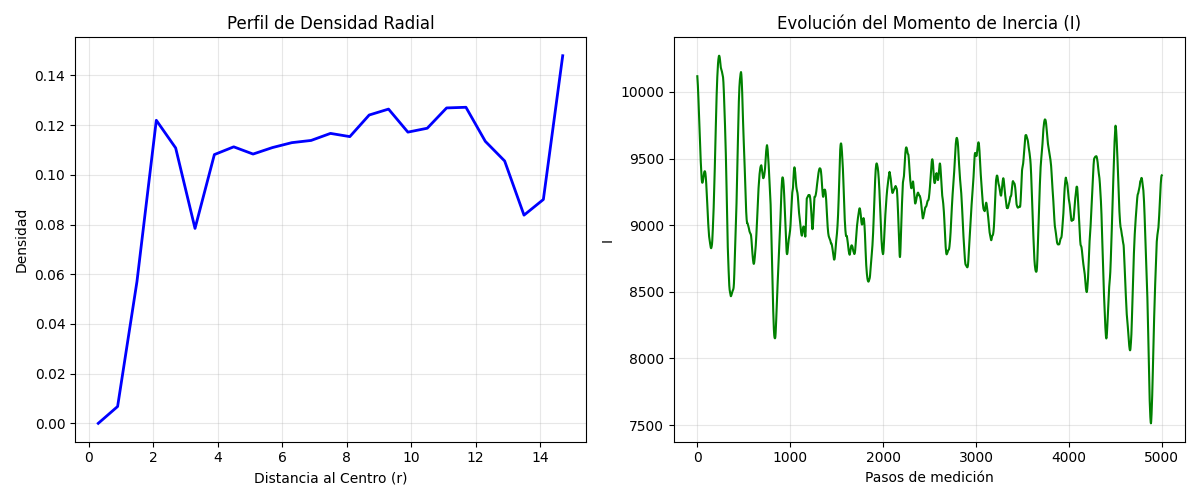
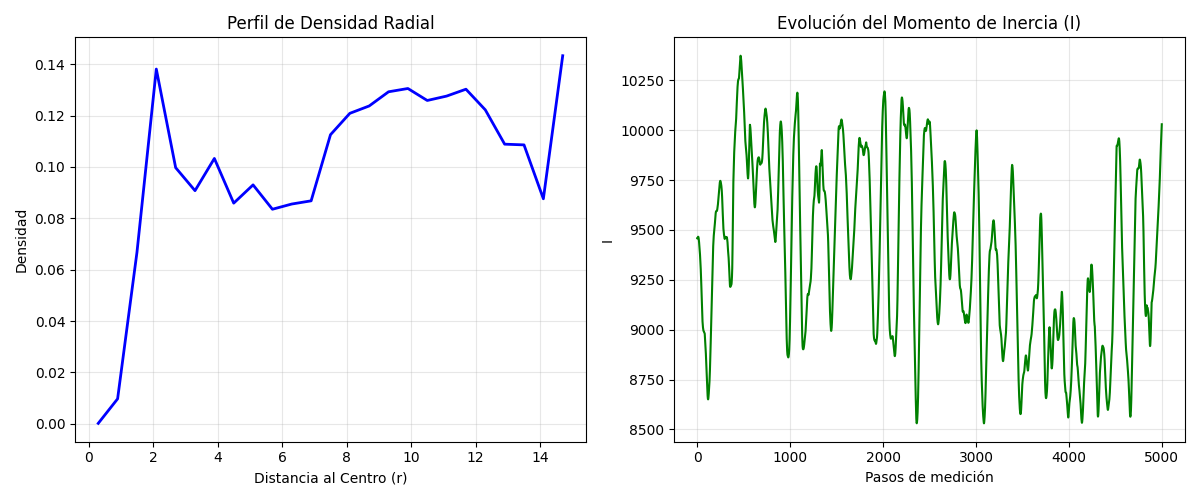
version mpi y actualizo version numpa

diff --git a/voluntario1/galaxias_mpi.py b/voluntario1/galaxias_mpi.py
@@ -1,0 +1,201 @@
+import numpy as np
+from mpi4py import MPI
+import matplotlib
+matplotlib.use('Agg')
+import matplotlib.pyplot as plt
+import matplotlib.animation as animation
+import time
+import os
+from numba import njit
+
+# =============================================================================
+# CONFIGURACIÓN MPI
+# =============================================================================
+comm = MPI.COMM_WORLD
+rank = comm.Get_rank()
+size = comm.Get_size()
+
+# =============================================================================
+# PARÁMETROS FÍSICOS
+# =============================================================================
+N_SISTEMAS = 160
+G = 1.0
+M_AGUJERO_NEGRO_INICIAL = 4.1e6
+M_SISTEMA = 1.0
+R_COLISION = 0.06
+R_ABSORCION = 0.5
+R_FRONTERA = 15.0
+DIST_INTERACCION = 5.0
+DT = 0.0005
+SOFTENING = 0.2
+PASOS_ESTABILIZACION = 1000
+PASOS_MEDICION = 1000
+COLA = 150
+
+OUTPUT_DIR = "resultados_mpi"
+
+# =============================================================================
+# DISTRIBUCIÓN DE CARGA
+# =============================================================================
+n_local = N_SISTEMAS // size
+start_idx = rank * n_local
+end_idx = (rank + 1) * n_local if rank != size - 1 else N_SISTEMAS
+
+# =============================================================================
+# FUNCIONES MATEMÁTICAS (Secuencial local)
+# =============================================================================
+
+@njit(fastmath=True)
+def compute_local_acc(pos, start, end, m_bh, m_sys, r_limit_sq, softening, G_const):
+    n_total = pos.shape[0]
+    n_local = end - start
+    local_acc = np.zeros((n_local, 2))
+    
+    for local_i in range(n_local):
+        global_i = start + local_i
+        
+        rx = pos[global_i, 0]
+        ry = pos[global_i, 1]
+        r_sq = rx**2 + ry**2
+        r_mag = np.sqrt(r_sq)
+        
+        factor_bh = -G_const * m_bh / (r_sq * r_mag + softening)
+        local_acc[local_i, 0] = rx * factor_bh
+        local_acc[local_i, 1] = ry * factor_bh
+
+        for j in range(n_total):
+            if global_i == j:
+                continue
+                
+            dx = pos[j, 0] - pos[global_i, 0]
+            dy = pos[j, 1] - pos[global_i, 1]
+            d_sq = dx**2 + dy**2
+            
+            if d_sq < r_limit_sq:
+                dist = np.sqrt(d_sq)
+                f_mag = G_const * m_sys / (d_sq * dist + softening)
+                local_acc[local_i, 0] += f_mag * dx
+                local_acc[local_i, 1] += f_mag * dy
+                
+    return local_acc
+
+@njit(fastmath=True)
+def resolver_colisiones_secuencial(pos, vel, r_col):
+    n = pos.shape[0]
+    r_double_sq = (2 * r_col)**2
+    for i in range(n):
+        for j in range(i + 1, n):
+            dx, dy = pos[j, 0] - pos[i, 0], pos[j, 1] - pos[i, 1]
+            d_sq = dx**2 + dy**2
+            if 0 < d_sq < r_double_sq:
+                dist = np.sqrt(d_sq)
+                nx, ny = dx / dist, dy / dist
+                rvx, rvy = vel[j, 0] - vel[i, 0], vel[j, 1] - vel[i, 1]
+                v_imp = rvx * nx + rvy * ny
+                if v_imp < 0:
+                    vel[i, 0] += v_imp * nx; vel[i, 1] += v_imp * ny
+                    vel[j, 0] -= v_imp * nx; vel[j, 1] -= v_imp * ny
+
+# =============================================================================
+# PROGRAMA PRINCIPAL
+# =============================================================================
+
+def main():
+    if rank == 0:
+        if not os.path.exists(OUTPUT_DIR):
+            os.makedirs(OUTPUT_DIR)
+        print(f"Iniciando simulación con {size} procesos MPI...")
+        inicio = time.time()
+
+        pos = np.random.uniform(-R_FRONTERA * 0.7, R_FRONTERA * 0.7, (N_SISTEMAS, 2))
+        vel = np.zeros_like(pos)
+        for i in range(N_SISTEMAS):
+            r = np.sqrt(pos[i,0]**2 + pos[i,1]**2) or 1e-6
+            v_mag = np.sqrt(G * M_AGUJERO_NEGRO_INICIAL / r) * np.random.uniform(0.7, 0.9)
+            vel[i] = np.array([-pos[i, 1], pos[i, 0]]) / r * v_mag + np.random.normal(0, 0.1, 2)
+            
+        historial_inercia = []
+        fotogramas = []
+        fig_anim, ax_anim = plt.subplots(figsize=(7, 7))
+    else:
+        pos = None
+        vel = None
+
+    total_steps = PASOS_ESTABILIZACION + PASOS_MEDICION
+    
+    # Variable dinámica de masa
+    m_bh_actual = M_AGUJERO_NEGRO_INICIAL
+
+    # Sincronización inicial
+    pos = comm.bcast(pos, root=0)
+    m_bh_actual = comm.bcast(m_bh_actual, root=0)
+    local_acc = compute_local_acc(pos, start_idx, end_idx, m_bh_actual, M_SISTEMA, DIST_INTERACCION**2, SOFTENING, G)
+    gathered_acc = comm.gather(local_acc, root=0)
+    
+    if rank == 0:
+        acc = np.vstack(gathered_acc)
+
+    for step in range(total_steps):
+        if rank == 0:
+            v_half = vel + acc * DT / 2.0
+            pos += v_half * DT
+
+            for i in range(N_SISTEMAS):
+                r_mag = np.sqrt(pos[i,0]**2 + pos[i,1]**2)
+                
+                # Absorción o fuga
+                if r_mag < R_ABSORCION or r_mag > R_FRONTERA:
+                    if r_mag < R_ABSORCION:
+                        m_bh_actual += M_SISTEMA  # El agujero negro gana masa
+                        
+                    theta = np.random.uniform(0, 2 * np.pi)
+                    pos[i] = R_FRONTERA * np.array([np.cos(theta), np.sin(theta)])
+                    # La nueva velocidad orbital usa la masa actualizada
+                    v_reg = np.sqrt(G * m_bh_actual / R_FRONTERA) * np.random.uniform(0.8, 0.95)
+                    vel[i] = np.array([-pos[i, 1], pos[i, 0]]) / R_FRONTERA * v_reg
+                    v_half[i] = vel[i]
+
+            resolver_colisiones_secuencial(pos, v_half, R_COLISION)
+
+        # Sincronización en cada paso
+        pos = comm.bcast(pos, root=0)
+        m_bh_actual = comm.bcast(m_bh_actual, root=0)  # El Jefe distribuye la nueva masa
+        
+        local_acc = compute_local_acc(pos, start_idx, end_idx, m_bh_actual, M_SISTEMA, DIST_INTERACCION**2, SOFTENING, G)
+        gathered_acc = comm.gather(local_acc, root=0)
+
+        if rank == 0:
+            acc_new = np.vstack(gathered_acc)
+            vel = v_half + acc_new * DT / 2.0
+            acc = acc_new
+
+            if step >= PASOS_ESTABILIZACION:
+                I = np.sum(M_SISTEMA * np.sum(pos**2, axis=1))
+                historial_inercia.append(I)
+
+            if step % 80 == 0:
+                p_pos = ax_anim.scatter(pos[:, 0], pos[:, 1], s=8, color='crimson', animated=True)
+                p_bh = ax_anim.scatter(0, 0, s=100, color='black', animated=True)
+                fotogramas.append([p_pos, p_bh])
+                
+            if step % 200 == 0:
+                print(f"Progreso: {step}/{total_steps} pasos... Masa Agujero Negro: {m_bh_actual:.1f}")
+
+    if rank == 0:
+        print("Generando animación, esto puede tardar unos segundos...")
+        ax_anim.set_xlim(-R_FRONTERA, R_FRONTERA)
+        ax_anim.set_ylim(-R_FRONTERA, R_FRONTERA)
+        ani = animation.ArtistAnimation(fig_anim, fotogramas, interval=40, blit=True)
+        ani.save(os.path.join(OUTPUT_DIR, "simulacion_mpi.gif"), writer="pillow")
+        plt.close(fig_anim)
+
+        duracion = time.time() - inicio
+        print("="*40)
+        print("EJECUCIÓN MPI COMPLETADA")
+        print(f"Nodos utilizados: {size}")
+        print(f"Masa final del Agujero Negro: {m_bh_actual:.1f}")
+        print(f"Tiempo total: {duracion:.2f} segundos")
+        print("="*40)
+
+if __name__ == "__main__":
+    main()

diff --git a/voluntario1/optimizado.py b/voluntario1/optimizado.py
@@ -3,13 +3,13 @@ import matplotlib.pyplot as plt
 import matplotlib.animation as animation
 import time
 import os
-from numba import njit
+from numba import njit, prange
 
 # =============================================================================
 # PARÁMETROS FÍSICOS (VALORES REALISTAS)
 # =============================================================================
 N_SISTEMAS = 80
-G = 1.0 
+G = 1.0
 M_AGUJERO_NEGRO = 4.1e6  # Masa de Sagitario A* en masas solares
 M_SISTEMA = 1.0          # Masa de un sistema estelar (1 masa solar)
 R_COLISION = 0.06
@@ -18,7 +18,7 @@ R_FRONTERA = 15.0        # Ampliado para la escala galáctica
 DIST_INTERACCION = 5.0
 DT = 0.0005              # Reducido para manejar la enorme fuerza central
 SOFTENING = 0.2          # Aumentado para evitar divergencias numéricas
-PASOS_ESTABILIZACION = 5000 
+PASOS_ESTABILIZACION = 5000
 PASOS_MEDICION = 5000
 COLA = 150
 
@@ -28,34 +28,61 @@ if not os.path.exists(OUTPUT_DIR):
     os.makedirs(OUTPUT_DIR)
 
 # =============================================================================
-# FUNCIONES OPTIMIZADAS
+# FUNCIONES OPTIMIZADAS (KERNEL PARALELO)
 # =============================================================================
 
-@njit(fastmath=True)
-def get_acc_numba(pos, mass, m_bh, r_limit, softening, G_const):
+@njit(parallel=True, fastmath=True)
+def compute_interactions(pos, mass, m_bh, r_limit_sq, softening, G_const, acc):
+    """
+    Núcleo de cálculo puro. Distribuido entre todos los núcleos de la CPU usando prange.
+    Se evita modificar acc[j] para prevenir condiciones de carrera en memoria compartida.
+    """
     n = pos.shape[0]
-    acc = np.zeros_like(pos)
-    for i in range(n):
-        rx, ry = pos[i, 0], pos[i, 1]
+    
+    for i in prange(n):
+        # 1. Fuerza del Agujero Negro Central
+        rx = pos[i, 0]
+        ry = pos[i, 1]
         r_sq = rx**2 + ry**2
         r_mag = np.sqrt(r_sq)
-        # Fuerza del Agujero Negro Central
+        
         factor_bh = -G_const * m_bh / (r_sq * r_mag + softening)
-        acc[i, 0], acc[i, 1] = rx * factor_bh, ry * factor_bh
+        acc[i, 0] = rx * factor_bh
+        acc[i, 1] = ry * factor_bh
 
-        # Interacciones entre sistemas (N-cuerpos limitado por r_limit)
-        for j in range(i + 1, n):
-            dx, dy = pos[j, 0] - pos[i, 0], pos[j, 1] - pos[i, 1]
+        # 2. Interacciones entre sistemas (N-cuerpos limitado por r_limit)
+        for j in range(n):
+            if i == j:
+                continue # Evitar auto-interacción
+                
+            dx = pos[j, 0] - pos[i, 0]
+            dy = pos[j, 1] - pos[i, 1]
             d_sq = dx**2 + dy**2
-            dist = np.sqrt(d_sq)
-            if dist < r_limit and dist > 0:
+            
+            if d_sq < r_limit_sq:
+                dist = np.sqrt(d_sq)
                 f_mag = G_const * mass / (d_sq * dist + softening)
-                acc[i, 0] += f_mag * dx; acc[i, 1] += f_mag * dy
-                acc[j, 0] -= f_mag * dx; acc[j, 1] -= f_mag * dy
+                
+                # Solo se actualiza la partícula 'i'
+                acc[i, 0] += f_mag * dx
+                acc[i, 1] += f_mag * dy
+
+def get_acc_numba(pos, mass, m_bh, r_limit, softening, G_const):
+    """
+    Función envoltorio. Python gestiona la asignación de memoria (np.zeros_like)
+    y Numba se encarga exclusivamente de las matemáticas.
+    """
+    acc = np.zeros_like(pos)
+    # Se pasa r_limit al cuadrado para evitar hacer raíces cuadradas de más en el filtro
+    compute_interactions(pos, mass, m_bh, r_limit**2, softening, G_const, acc)
     return acc
 
 @njit(fastmath=True)
 def resolver_colisiones_numba(pos, vel, r_col):
+    """
+    Resolutor secuencial. Se mantiene sin parallel=True para evitar corrupción 
+    de datos, ya que ambas partículas (i y j) modifican sus velocidades a la vez.
+    """
     n, r_double = pos.shape[0], 2 * r_col
     for i in range(n):
         for j in range(i + 1, n):
@@ -75,6 +102,9 @@ def resolver_colisiones_numba(pos, vel, r_col):
 # =============================================================================
 
 def main():
+    # --- INICIO DEL CRONÓMETRO ---
+    inicio = time.time()
+
     # Inicialización de posiciones y velocidades circulares
     pos = np.random.uniform(-R_FRONTERA * 0.7, R_FRONTERA * 0.7, (N_SISTEMAS, 2))
     vel = np.zeros_like(pos)
@@ -85,20 +115,20 @@ def main():
 
     acc = get_acc_numba(pos, M_SISTEMA, M_AGUJERO_NEGRO, DIST_INTERACCION, SOFTENING, G)
     total_steps = PASOS_ESTABILIZACION + PASOS_MEDICION
-    
+
     historial_inercia = []
     historial_densidad = []
     fotogramas = []
-    
+
     fig_anim, ax_anim = plt.subplots(figsize=(7, 7))
-    print(f"Calculando {total_steps} pasos")
+    print(f"Calculando {total_steps} pasos...")
 
     # Bucle Temporal (Verlet en Velocidad)
     for step in range(total_steps):
         # 1. Actualización de posición
         v_half = vel + acc * DT / 2.0
         pos += v_half * DT
-        
+
         # 2. Gestión de fronteras y absorción
         for i in range(N_SISTEMAS):
             r_mag = np.sqrt(pos[i,0]**2 + pos[i,1]**2)
@@ -117,11 +147,9 @@ def main():
 
         # 4. Toma de datos en fase de medición
         if step >= PASOS_ESTABILIZACION:
-            # Momento de inercia: I = sum(m * r^2)
             I = np.sum(M_SISTEMA * np.sum(pos**2, axis=1))
             historial_inercia.append(I)
-            
-            # Densidad radial
+
             radios = np.sqrt(np.sum(pos**2, axis=1))
             counts, bins = np.histogram(radios, bins=25, range=(0, R_FRONTERA))
             areas = np.pi * (bins[1:]**2 - bins[:-1]**2)
@@ -135,8 +163,7 @@ def main():
             fotogramas.append([p_pos, p_bh])
 
     # --- GUARDADO DE RESULTADOS ---
-    
-    # 1. Guardar GIF
+
     print("Generando simulación...")
     ax_anim.set_xlim(-R_FRONTERA, R_FRONTERA)
     ax_anim.set_ylim(-R_FRONTERA, R_FRONTERA)
@@ -145,26 +172,31 @@ def main():
     ani.save(os.path.join(OUTPUT_DIR, "simulacion_opt.gif"), writer="pillow")
     plt.close(fig_anim)
 
-    # 2. Generar y guardar Gráfica de Análisis
     print("Generando gráficas de análisis...")
     densidad_media = np.mean(historial_densidad, axis=0)
     bin_centers = (bins[:-1] + bins[1:]) / 2
-    
+
     fig_res, (ax1, ax2) = plt.subplots(1, 2, figsize=(12, 5))
-    
     ax1.plot(bin_centers, densidad_media, color='blue', lw=2)
     ax1.set_title("Perfil de Densidad Radial")
     ax1.set_xlabel("Distancia al Centro (r)"); ax1.set_ylabel("Densidad")
     ax1.grid(True, alpha=0.3)
-    
+
     ax2.plot(historial_inercia, color='green')
     ax2.set_title("Evolución del Momento de Inercia (I)")
     ax2.set_xlabel("Pasos de medición"); ax2.set_ylabel("I")
     ax2.grid(True, alpha=0.3)
-    
+
     plt.tight_layout()
     plt.savefig(os.path.join(OUTPUT_DIR, "analisis_galaxia_opt.png"))
-    print(f"Éxito. Archivos guardados.")
+    
+    # --- FIN DEL CRONÓMETRO Y SALIDA ---
+    fin = time.time()
+    duracion = fin - inicio
+    print(f"\n" + "="*30)
+    print(f"Éxito. Archivos guardados en: {OUTPUT_DIR}")
+    print(f"Tiempo total de ejecución: {duracion:.2f} segundos")
+    print("="*30)
 
 if __name__ == "__main__":
     main()